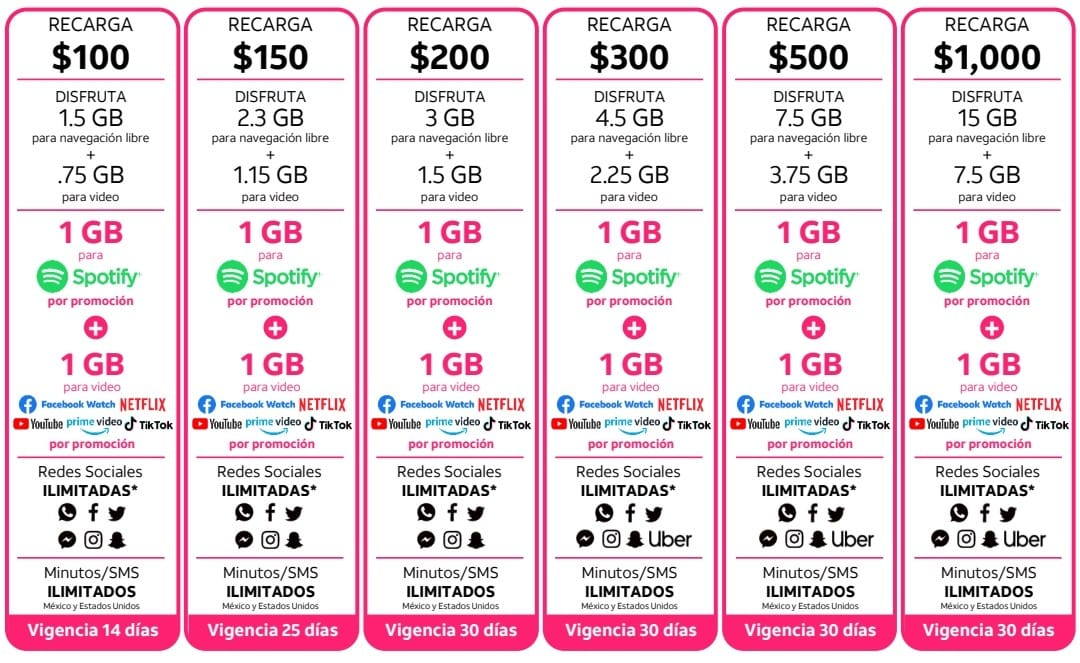
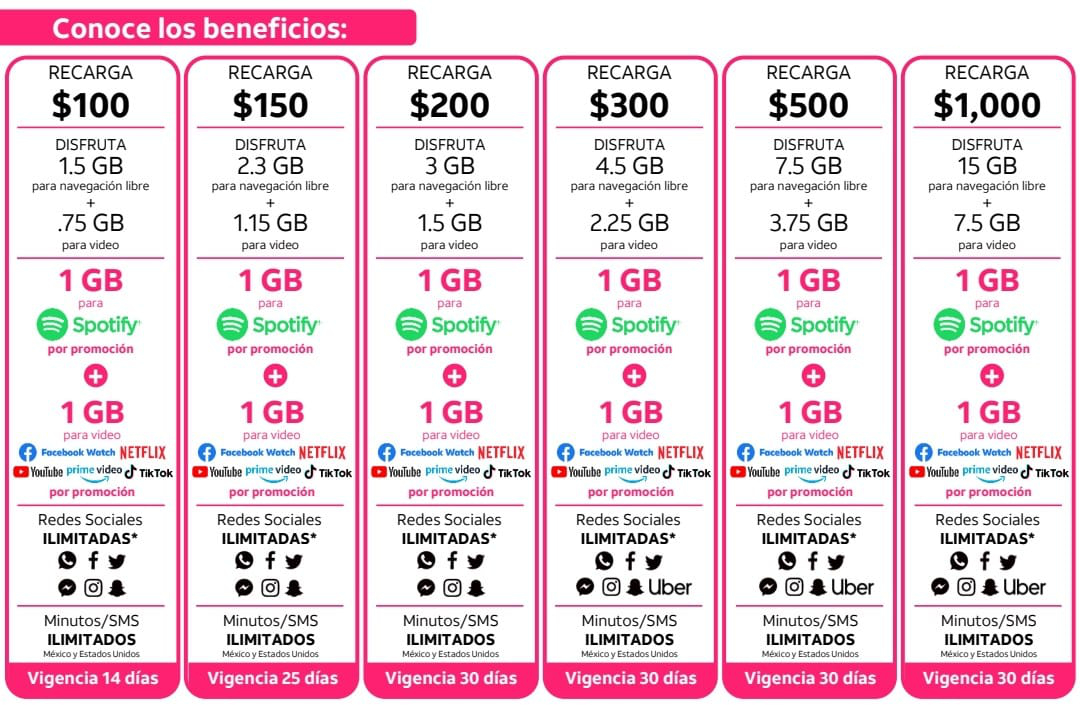
Cambio de parrilla de at&t y corrección de precios en las tablas

diff --git a/pages/mechanics.vue b/pages/mechanics.vue
@@ -1,12 +1,5 @@
 <template>
   <div class="mechanics">
-    <div class="mechanics__resume">
-      * La Rifa bimestral del Smartphone y el quinto mes de regalo sólo aplican si se cumple con el
-      criterio de las recargas antes estipuladas. Sólo participan los número que acumulen o
-      recarguen $200 o más en el mes calendario, es decir, no corre el mes a partir de la fecha de
-      compra y sólo participan durante 5 meses a partir del mes en que se adquirió el chip.
-    </div>
-
     <div class="mechanics__scene">
       <div class="text-center">
         <h2>Quinto mes de regalo</h2>
@@ -20,7 +13,10 @@
         <div class="table__th">Mes 4 <br />Octubre</div>
         <div class="table__th">Mes 5 <br />Noviembre</div>
 
-        <div class="table__td" data-td="1">Beneficios + $150, acumulas $200</div>
+        <div class="table__td" data-td="1">
+          Beneficios + $150 <br />
+          acumulas $200
+        </div>
         <div class="table__td" data-td="2">Recarga o acumula $200</div>
         <div class="table__td" data-td="3">Recarga o acumula $200</div>
         <div class="table__td" data-td="4">Recarga o acumula $200</div>
@@ -50,7 +46,10 @@
         <div class="table__th">Mes 5 <br />Noviembre</div>
         <div class="table__th">Mes 6 <br />Diciembre</div>
 
-        <div class="table__td" data-td="1">Beneficios + $100, acumulas $200</div>
+        <div class="table__td" data-td="1">
+          Beneficios + $100 <br />
+          No acumulas $200
+        </div>
         <div class="table__td" data-td="2">Recarga o acumula $200</div>
         <div class="table__td" data-td="3">Recarga o acumula $200</div>
         <div class="table__td" data-td="4">Recarga o acumula $200</div>
@@ -90,7 +89,7 @@
 
         <div class="table__td" data-td="1">Beneficios + recarga de $150 = $200</div>
         <div class="table__td" data-td="2">Recarga o acumula $200</div>
-        <div class="table__td" data-td="3">Recarga o acumula $200</div>
+        <div class="table__td" data-td="3">Recarga o acumula $150</div>
         <div class="table__td" data-td="4">Recarga o acumula $200</div>
         <div class="table__td" data-td="5">Recarga o acumula $200</div>
 
@@ -148,12 +147,10 @@
 </template>
 
 <script>
-import { mapGetters } from 'vuex'
+import highlightColor from '../mixins/highlight-color'
 
 export default {
-  computed: {
-    ...mapGetters(['chipName']),
-  },
+  mixins: [highlightColor],
 }
 </script>
 
@@ -171,13 +168,10 @@ $spacing: 2rem;
     padding: 4rem 2rem;
   }
 
-  &__resume {
-    font-size: 2rem;
-    text-align: center;
-  }
-
   &__scene {
-    margin-top: $spacing + 2rem;
+    &:not(:first-child) {
+      margin-top: $spacing + 2rem;
+    }
 
     h2 {
       margin-bottom: 1rem;

diff --git a/pages/offer.vue b/pages/offer.vue
@@ -59,20 +59,21 @@
           </li>
         </ul>
       </div>
+      <div class="offer__resume">
+        * La Rifa bimestral del Smartphone y el quinto mes de regalo sólo aplican si se cumple con
+        el criterio de las recargas antes estipuladas. Sólo participan los número que acumulen o
+        recarguen $200 o más en el mes calendario, es decir, no corre el mes a partir de la fecha de
+        compra y sólo participan durante 5 meses a partir del mes en que se adquirió el chip.
+      </div>
     </div>
   </div>
 </template>
 
 <script>
-import { mapGetters } from 'vuex'
+import highlightColor from '../mixins/highlight-color'
 
 export default {
-  computed: {
-    ...mapGetters(['chipName']),
-    highlightColor() {
-      return { color: `var(--${this.chipName === 'at&t' ? 'att' : this.chipName}-color)` }
-    },
-  },
+  mixins: [highlightColor],
 }
 </script>
 
@@ -108,14 +109,15 @@ export default {
     margin-top: 2rem;
     display: grid;
     grid-gap: 2rem;
-    grid-template-columns: 50% 1fr;
-    grid-template-areas: 'benefit1 benefit2';
+    grid-template-areas:
+      'benefit1 benefit2'
+      'resume resume';
 
     @include respond(sm) {
-      grid-template-columns: initial;
       grid-template-areas:
         'benefit1'
-        'benefit2';
+        'benefit2'
+        'resume';
     }
   }
 
@@ -149,13 +151,18 @@ export default {
       }
 
       li .highlight {
-        font-family: 'Segoe UI Black', sans-serif;
       }
 
       li:not(:last-child) {
         margin-bottom: 0.8rem;
       }
     }
+  }
+
+  &__resume {
+    font-size: 2rem;
+    text-align: center;
+    grid-area: resume;
   }
 }
 </style>

diff --git a/mixins/highlight-color.js b/mixins/highlight-color.js
@@ -1,0 +1,13 @@
+import { mapGetters } from 'vuex'
+
+export default {
+  computed: {
+    ...mapGetters(['chipName']),
+    highlightColor() {
+      return {
+        color: `var(--${this.chipName === 'at&t' ? 'att' : this.chipName}-color)`,
+        fontFamily: "'Segoe UI Black', sans-serif",
+      }
+    },
+  },
+}
